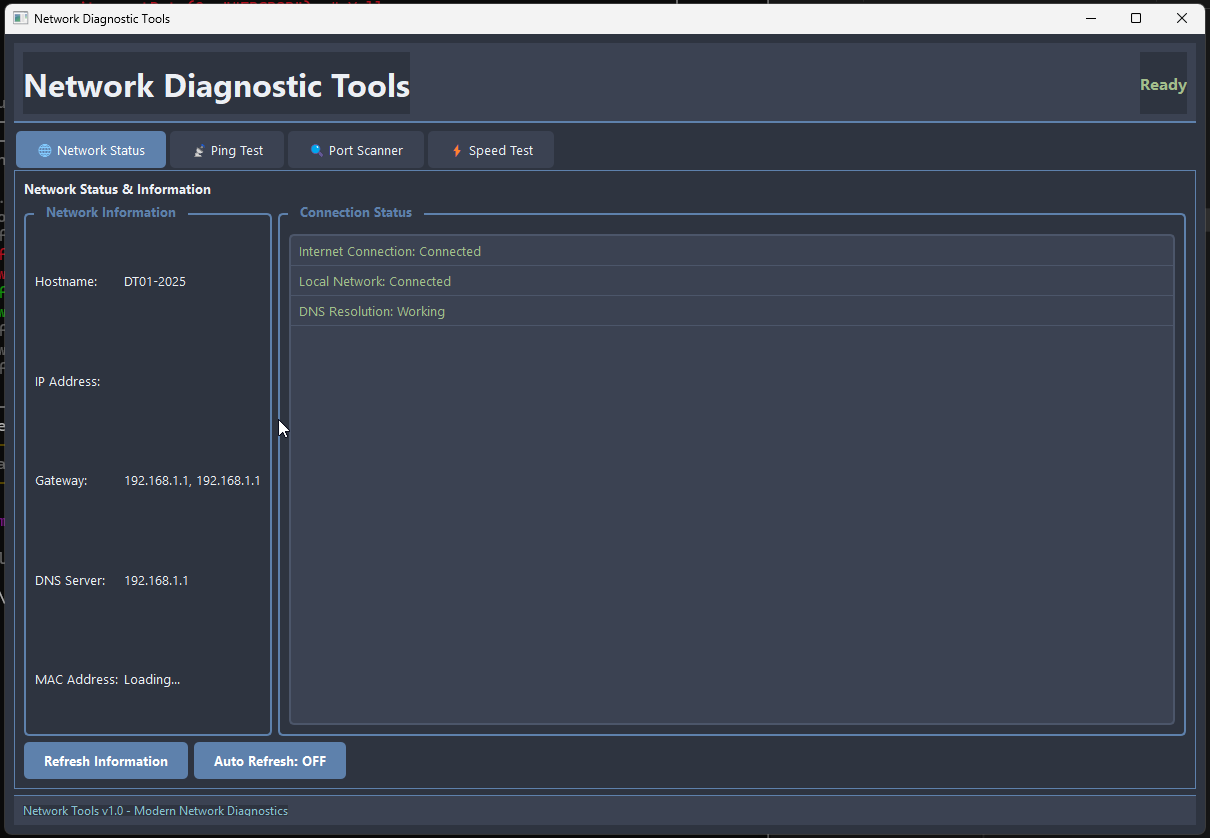
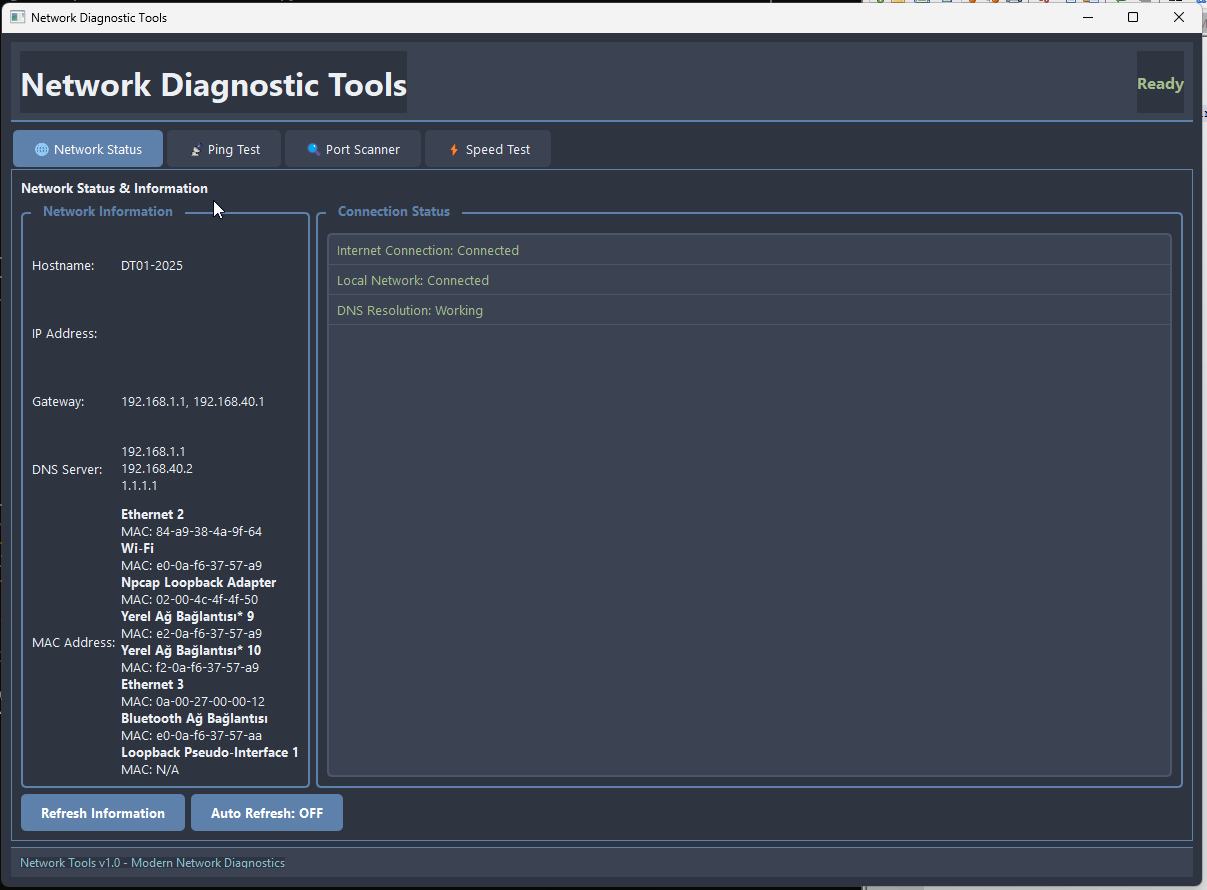
"Backup_UI_Fixes_2"

Changed region(s): [[0.0, 0.0, 1.0, 1.0]]

diff --git a/network/detector.py b/network/detector.py
@@ -23,10 +23,8 @@ class NetworkDetector:
         try:
             info = {
                 'hostname': self.get_hostname(),
-                'ip_address': self.get_local_ip(),
                 'gateway': self.get_default_gateway(),
                 'dns': self.get_dns_servers(),
-                'mac_address': self.get_mac_address(),
                 'connections': self.get_connection_status(),
                 'interfaces': self.get_network_interfaces(),
                 'timestamp': datetime.now().isoformat()
@@ -42,10 +40,15 @@ class NetworkDetector:
     def get_local_ip(self) -> list[str]:
         """Get all local IP addresses (IPv4) for active interfaces."""
         ip_addresses = []
-        for interface, addrs in psutil.net_if_addrs().items():
-            for addr in addrs:
-                if addr.family == socket.AF_INET and not addr.address.startswith('127.'): # Exclude loopback
-                    ip_addresses.append(addr.address)
+        try:
+            for interface, addrs in psutil.net_if_addrs().items():
+                for addr in addrs:
+                    if addr.family == socket.AF_INET and not addr.address.startswith('127.'): # Exclude loopback
+                        ip_addresses.append(addr.address)
+            print(f"DEBUG: get_local_ip - Detected IPs: {ip_addresses}")
+        except Exception as e:
+            print(f"DEBUG: get_local_ip - Error: {e}")
+            pass
         return ip_addresses if ip_addresses else ["Unable to determine"]
     
     def get_default_gateway(self) -> list[str]:
@@ -58,8 +61,9 @@ class NetworkDetector:
                     if gw_family in gws and gws[gw_family]:
                         for gw_info in gws[gw_family]:
                             gateways.append(gw_info[0])
-            except Exception:
-                pass
+                print(f"DEBUG: get_default_gateway - Detected Gateways (netifaces): {gateways}")
+            except Exception as e:
+                print(f"DEBUG: get_default_gateway - Error (netifaces): {e}")
         
         if not gateways and self.platform == "windows":
             try:
@@ -72,8 +76,9 @@ class NetworkDetector:
                             gateway = parts[1].strip()
                             if gateway and gateway != '0.0.0.0':
                                 gateways.append(gateway)
-            except Exception:
-                pass
+                print(f"DEBUG: get_default_gateway - Detected Gateways (ipconfig): {gateways}")
+            except Exception as e:
+                print(f"DEBUG: get_default_gateway - Error (ipconfig): {e}")
         return gateways if gateways else ["Unable to determine"]
     
     def get_dns_servers(self) -> list[str]:
@@ -98,7 +103,9 @@ class NetworkDetector:
                             ip = line.split()[1].strip()
                             if ip not in dns_servers:
                                 dns_servers.append(ip)
-        except Exception:
+            print(f"DEBUG: get_dns_servers - Detected DNS: {dns_servers}")
+        except Exception as e:
+            print(f"DEBUG: get_dns_servers - Error: {e}")
             pass
         return dns_servers if dns_servers else ["Unable to determine"]
     
@@ -153,30 +160,43 @@ class NetworkDetector:
                     if addr.family == socket.AF_INET:
                         interface_info['ipv4'] = addr.address
                     elif addr.family == psutil.AF_LINK:
-                        interface_info['mac'] = addr.address
+                        interface_info['mac'] = addr.address.lower() # Convert MAC to lowercase
                 
                 interfaces.append(interface_info)
+            print(f"DEBUG: get_network_interfaces - Detected Interfaces: {interfaces}")
             return interfaces
-        except:
+        except Exception as e:
+            print(f"DEBUG: get_network_interfaces - Error: {e}")
             return []
 
     def check_internet_connection(self):
-        """Test internet connectivity"""
+        """Test internet connectivity by trying to reach Google's DNS server and a well-known website."""
         try:
-            socket.create_connection(("8.8.8.8", 53), timeout=3)
+            # Try to connect to Google's public DNS server
+            socket.create_connection(("8.8.8.8", 53), timeout=2)
+            
+            # Try to fetch a small page from a reliable website
+            import urllib.request
+            urllib.request.urlopen("http://www.google.com", timeout=2)
             return True
         except:
             return False
     
     def test_local_network(self):
-        """Test local network connectivity"""
+        """Test local network connectivity by trying to reach the default gateway(s)."""
         gateways = self.get_default_gateway()
         for gateway in gateways:
             if gateway != "Unable to determine":
                 try:
-                    socket.create_connection((gateway, 80), timeout=3)
-                    return True
-                except:
+                    # Try to ping the gateway
+                    if platform.system().lower() == 'windows':
+                        cmd = ['ping', '-n', '1', gateway]
+                    else:
+                        cmd = ['ping', '-c', '1', gateway]
+                    result = subprocess.run(cmd, capture_output=True, text=True, timeout=3, encoding='cp850')
+                    if result.returncode == 0:
+                        return True
+                except Exception:
                     pass
         return False
     

diff --git a/gui/components/network_status.py b/gui/components/network_status.py
@@ -22,6 +22,7 @@ class NetworkStatusWidget(QWidget):
     def __init__(self):
         super().__init__()
         self.detector = NetworkDetector()
+        self.current_thread = None  # To keep track of the running thread
         self.setup_ui()
         self.setup_timer()
         self.refresh_info()
@@ -31,19 +32,39 @@ class NetworkStatusWidget(QWidget):
         self.ui_update_timer.timeout.connect(self.process_update_queue)
         self.ui_update_timer.start()
 
+    def closeEvent(self, event):
+        # Ensure thread is terminated when widget is closed
+        if self.current_thread and self.current_thread.isRunning():
+            self.current_thread.quit()
+            self.current_thread.wait()
+        super().closeEvent(event)
+
     def process_update_queue(self):
         if self.update_queue:
             info = self.update_queue.pop(0)
             self.hostname_label.setText(info.get('hostname', 'Unknown'))
-            self.ip_label.setText(", ".join(info.get('ip_address', ['Unknown'])) if info.get('ip_address') else 'Unknown')
+
+            # Update IP addresses and MAC addresses per interface
+            ip_mac_text = []
+            mac_text = []
+            for interface in info.get('interfaces', []):
+                name = interface.get('name', 'Unknown')
+                ipv4 = interface.get('ipv4', 'N/A')
+                mac = interface.get('mac', 'N/A')
+                ip_mac_text.append(f"<b>{name}</b><br>  IP: {ipv4}")
+                mac_text.append(f"<b>{name}</b><br>  MAC: {mac}")
+            self.ip_label.setText("<br><br>".join(ip_mac_text) if ip_mac_text else 'Unknown')
+            self.mac_label.setText("<br>".join(mac_text) if mac_text else 'Unknown')
+
             self.gateway_label.setText(", ".join(info.get('gateway', ['Unknown'])))
-            self.dns_label.setText(", ".join(info.get('dns', ['Unknown'])))
+            self.dns_label.setText("<br>".join(info.get('dns', ['Unknown'])))
             
             # Update connection list
             self.connection_list.clear()
             connections = info.get('connections', [])
             for conn in connections:
-                item = QListWidgetItem(f"{conn['description']}: {conn['status']}")
+                item = QListWidgetItem()
+                item.setText(f"{conn['description']}: {conn['status']}")
                 from PyQt5.QtGui import QColor, QBrush
                 if conn['status'] == 'Connected' or conn['status'] == 'Working':
                     item.setForeground(QBrush(QColor("#A3BE8C")))  # Green
@@ -114,12 +135,21 @@ class NetworkStatusWidget(QWidget):
     def setup_timer(self):
         self.timer = QTimer()
         self.timer.timeout.connect(self.refresh_info)
-        self.auto_refresh = False
+        self.auto_refresh = True
+        self.toggle_auto_refresh()
         
     def refresh_info(self):
-        self.thread = NetworkInfoThread(self)
-        self.thread.info_ready.connect(self.update_info)
-        self.thread.start()
+        if self.current_thread and self.current_thread.isRunning():
+            self.current_thread.quit()
+            self.current_thread.wait() # Wait for the thread to finish
+
+        self.current_thread = NetworkInfoThread(self)
+        self.current_thread.info_ready.connect(self.update_info)
+        self.current_thread.finished.connect(self.thread_finished) # Connect finished signal
+        self.current_thread.start()
+
+    def thread_finished(self):
+        self.current_thread = None # Clear the reference when the thread finishes
         
     def update_info(self, info):
         self.update_queue.append(info)

diff --git a/GEMINI_USER_REQUESTS.md b/GEMINI_USER_REQUESTS.md
@@ -1,13 +1,35 @@
 # Kullanıcı İstekleri
 
 ## Network Status Ekranı
-- IP adresi görünmüyor. Cihazda birden fazla IP adresi varsa bunlar da tespit edilip belirtilsin.
-- Gateway görünmüyor.
-- DNS görünmüyor.
-- Connection Status düzgün çalışmıyor.
+- başladığı andan itibaren otomatik olarak auto refresh etsin
+- local network bağlı olmasına rağmen disconnected görünüyor, refresh etmeme rağmen düzelmedi
+- IP adresi görünmüyor. (hala sorunlu)
+- Cihazda birden fazla IP adresi varsa bunlar da tespit edilip belirtilsin. (başlamadı)
+- Gateway görünmüyor. (Hala sorunlu - "Unable to determine" veya boş)
+- DNS görünmüyor. (ip olarak değil, name olarak görnüyor, alt alta yazılmasını bekliyorum.)
+- Connection Status düzgün çalışmıyor. (düzeldi, local network hatalı görünüyor)
+- MAC adres görünmüyor. (düzeldi, küçük harflerle yazılsın, ekranda çok yer kaplıyor)
+- Birden fazla ip adresi varsa, alt alta sıralasın, hangi network cihazı olduğu belirtilsin. (Hala sorunlu)
+- Connection status kısmında hata varsa ":" sonrasında gelen kelime kırmızı olsun. (Çözüldü - Metin düzgün görünüyor, renk test edilecek)
+- Ağ kartlarını disable/enable edebileceğim bir buton ekle.
 
-## Uygulama Genel
-- Uygulamaya bir çıkış butonu eklensin.
+## Ping Testi
+- Ping satırında TTL görmek istiyorum. (başlamadı)
+
+## Port Scanner
+- Tespit edilen portlar log olarak dışarı aktarılabilsin. (başlamadı)
+
+## Speedtest
+- Test sonuçları log olarak dışarı aktarılabilsin. (başlamadı)
+
+## Arayüz Genel
+- Exit butonu eklensin. (başlamadı)
+- Ready görseli, bağlantı sorunu bulunamazsa OK olarak görünsün. (başlamadı)
+- Help, about menüleri eklensin. (başlamadı)
+- droltr github linki verilsin. (başlamadı)
+
+## Eklenti
+- Olası sorunları test eden ping, trace, device bilgilerini içeren bir log dosyası oluşturan otomatik test widgeti tasarla ve ekle. Ayrı bir sekme olsun. (başlamadı)
 
 ## Genel Talimatlar (Tüm Projeler İçin)
 - Her proje için kullanıcı isteklerini içeren bir dosya oluşturulacak.

diff --git a/GEMINI_CAPABILITIES.md b/GEMINI_CAPABILITIES.md
@@ -1,9 +1,15 @@
 # Program Yetenekleri
 
 ## Network Tools
-- Ağ durumu bilgileri (Hostname, IP Adresi, MAC Adresi)
+- Ağ durumu bilgileri (Hostname, Gateway, DNS, Arayüz bazında IP ve MAC Adresleri)
 - Ping testi
 - Port taraması
 - İnternet hız testi (İndirme, Yükleme, Ping)
 - Threading kullanarak UI'ı dondurmadan arka planda işlemler yapabilme
 - Modern ve duyarlı kullanıcı arayüzü (PyQt5)
+- Ağ kartlarını etkinleştirme/devre dışı bırakma (Geliştiriliyor)
+
+## Geliştirme Süreci Yetenekleri
+- Kullanıcı isteklerini ve program yeteneklerini belgeleyen dosyalar oluşturma ve güncelleme.
+- Git ile versiyonlama ve yedekleme.
+- Kullanıcıdan geri bildirim alma.
